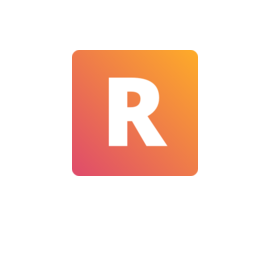
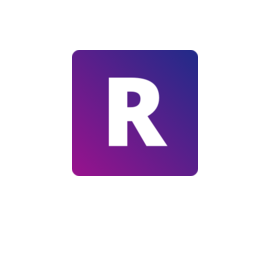
Replaced colors for better contrast

Changed region(s): [[0.2667, 0.1778, 0.7407, 0.6519], [0.4444, 0.3259, 0.5333, 0.4148]]

diff --git a/lib/components/base/index.css b/lib/components/base/index.css
@@ -35,18 +35,18 @@
 
   /* Gradients */
   --gradient-celestial: linear-gradient(44deg, #98128d 0%, #202b89 100%);
-  --gradient-sun: linear-gradient(155deg, #feac28, #df4b6b);
-  --gradient-grass: linear-gradient(12deg, #0e7352, #3cbd59);
+  --gradient-grass: linear-gradient(79deg, #083d2d, #40a11c 100%);
+  --gradient-autumn: linear-gradient(77deg, #30095d, #b21474);
   --gradient-ocean: linear-gradient(49deg, #044978, #0099e0);
-  --gradient-mauve: linear-gradient(-94deg, #b41e4c, #851359 100%);
+  --gradient-mauve: linear-gradient(-94deg, #a3103d, #5f033b 100%);
   --gradient-mint: linear-gradient(-90deg, #05e5b1 0, #00dcff 100%);
 
   /* Bright colors corresponding to gradients */
   --color-celestial: #98128d;
-  --color-sun: #f5913b;
-  --color-grass: #0b855d;
+  --color-grass: #1a6b35;
+  --color-autumn: #640e61;
   --color-ocean: #1271b2;
-  --color-mauve: #851359;
+  --color-mauve: #7d063b;
   --color-mint: #05e5b1;
 }
 

diff --git a/lib/document.js b/lib/document.js
@@ -17,10 +17,10 @@ function document (view, state) {
       <link rel="icon" type="image/png" sizes="32x32" href="/favicon-32x32.png">
       <link rel="icon" type="image/png" sizes="16x16" href="/favicon-16x16.png">
       <link rel="manifest" href="/manifest.json">
-      <link rel="mask-icon" href="/safari-pinned-tab.svg" color="#f5913b">
+      <link rel="mask-icon" href="/safari-pinned-tab.svg" color="#30095d">
       <meta name="apple-mobile-web-app-title" content="Robotkodarn">
       <meta name="application-name" content="Robotkodarn">
-      <meta name="theme-color" content="#f5913b">
+      <meta name="theme-color" content="#30095d">
       <link href="/index-${state.version}.css" rel="stylesheet">
       <script>
         (function () {

diff --git a/lib/app/store/index.js b/lib/app/store/index.js
@@ -30,13 +30,13 @@ module.exports = function () {
  */
 const getColor = route => {
   switch (route) {
-    case '/': return 'sun'
+    case '/': return 'celestial'
     case '/sa-funkar-det': return 'grass'
-    case '/om-robotkodarn': return 'celestial'
+    case '/om-robotkodarn': return 'autumn'
     case '/sa-mots-malen': return 'ocean'
     case '/kontakt': return 'mauve'
     case '/error': return 'ocean'
-    case '/tack': return 'sun'
+    case '/tack': return 'ocean'
     default: return 'ocean'
   }
 }

diff --git a/lib/components/blurb/text.css b/lib/components/blurb/text.css
@@ -18,12 +18,12 @@
 
 .Blurb-title,
 .Blurb-heading3 {
-  background: var(--gradient-sun);
+  background: var(--gradient-autumn);
   /* stylelint-disable */
   -webkit-background-clip: text;
   /* stylelint-enable */
   background-clip: text;
-  color: var(--color-sun);
+  color: var(--color-autumn);
   font-weight: 800;
   line-height: 1.4;
   -webkit-text-fill-color: transparent;

diff --git a/lib/components/anchors/index.css b/lib/components/anchors/index.css
@@ -23,7 +23,7 @@
 
 .Anchors-listitem {
   float: left;
-  margin: 0 0 0.4rem 0.2rem;
+  margin: 0 0 0.4rem 0.6rem;
 }
 
 /* Links */
@@ -62,8 +62,8 @@
   color: var(--color-grass);
 }
 
-.Anchors-arrow--sun {
-  color: var(--color-sun);
+.Anchors-arrow--autumn {
+  color: var(--color-autumn);
 }
 
 .Anchors-arrow--ocean {

diff --git a/lib/components/navigation/index.css b/lib/components/navigation/index.css
@@ -270,8 +270,8 @@
     color: var(--color-grass);
   }
 
-  .Navigation-listLink--active.Navigation-listLink--sun {
-    color: var(--color-sun);
+  .Navigation-listLink--active.Navigation-listLink--autumn {
+    color: var(--color-autumn);
   }
 
   .Navigation-listLink--active.Navigation-listLink--mauve {

diff --git a/lib/components/pattern/index.css b/lib/components/pattern/index.css
@@ -21,9 +21,9 @@
   color: var(--color-grass);
 }
 
-.Pattern--sun {
-  background-image: var(--gradient-sun);
-  color: var(--color-sun);
+.Pattern--autumn {
+  background-image: var(--gradient-autumn);
+  color: var(--color-autumn);
 }
 
 .Pattern--celestial {

diff --git a/lib/components/hero/index.css b/lib/components/hero/index.css
@@ -10,6 +10,10 @@
   position: relative;
 }
 
+.Hero--contact {
+  min-height: 88vh;
+}
+
 .Hero-main {
   margin: 0 1.5rem 2rem;
 }
